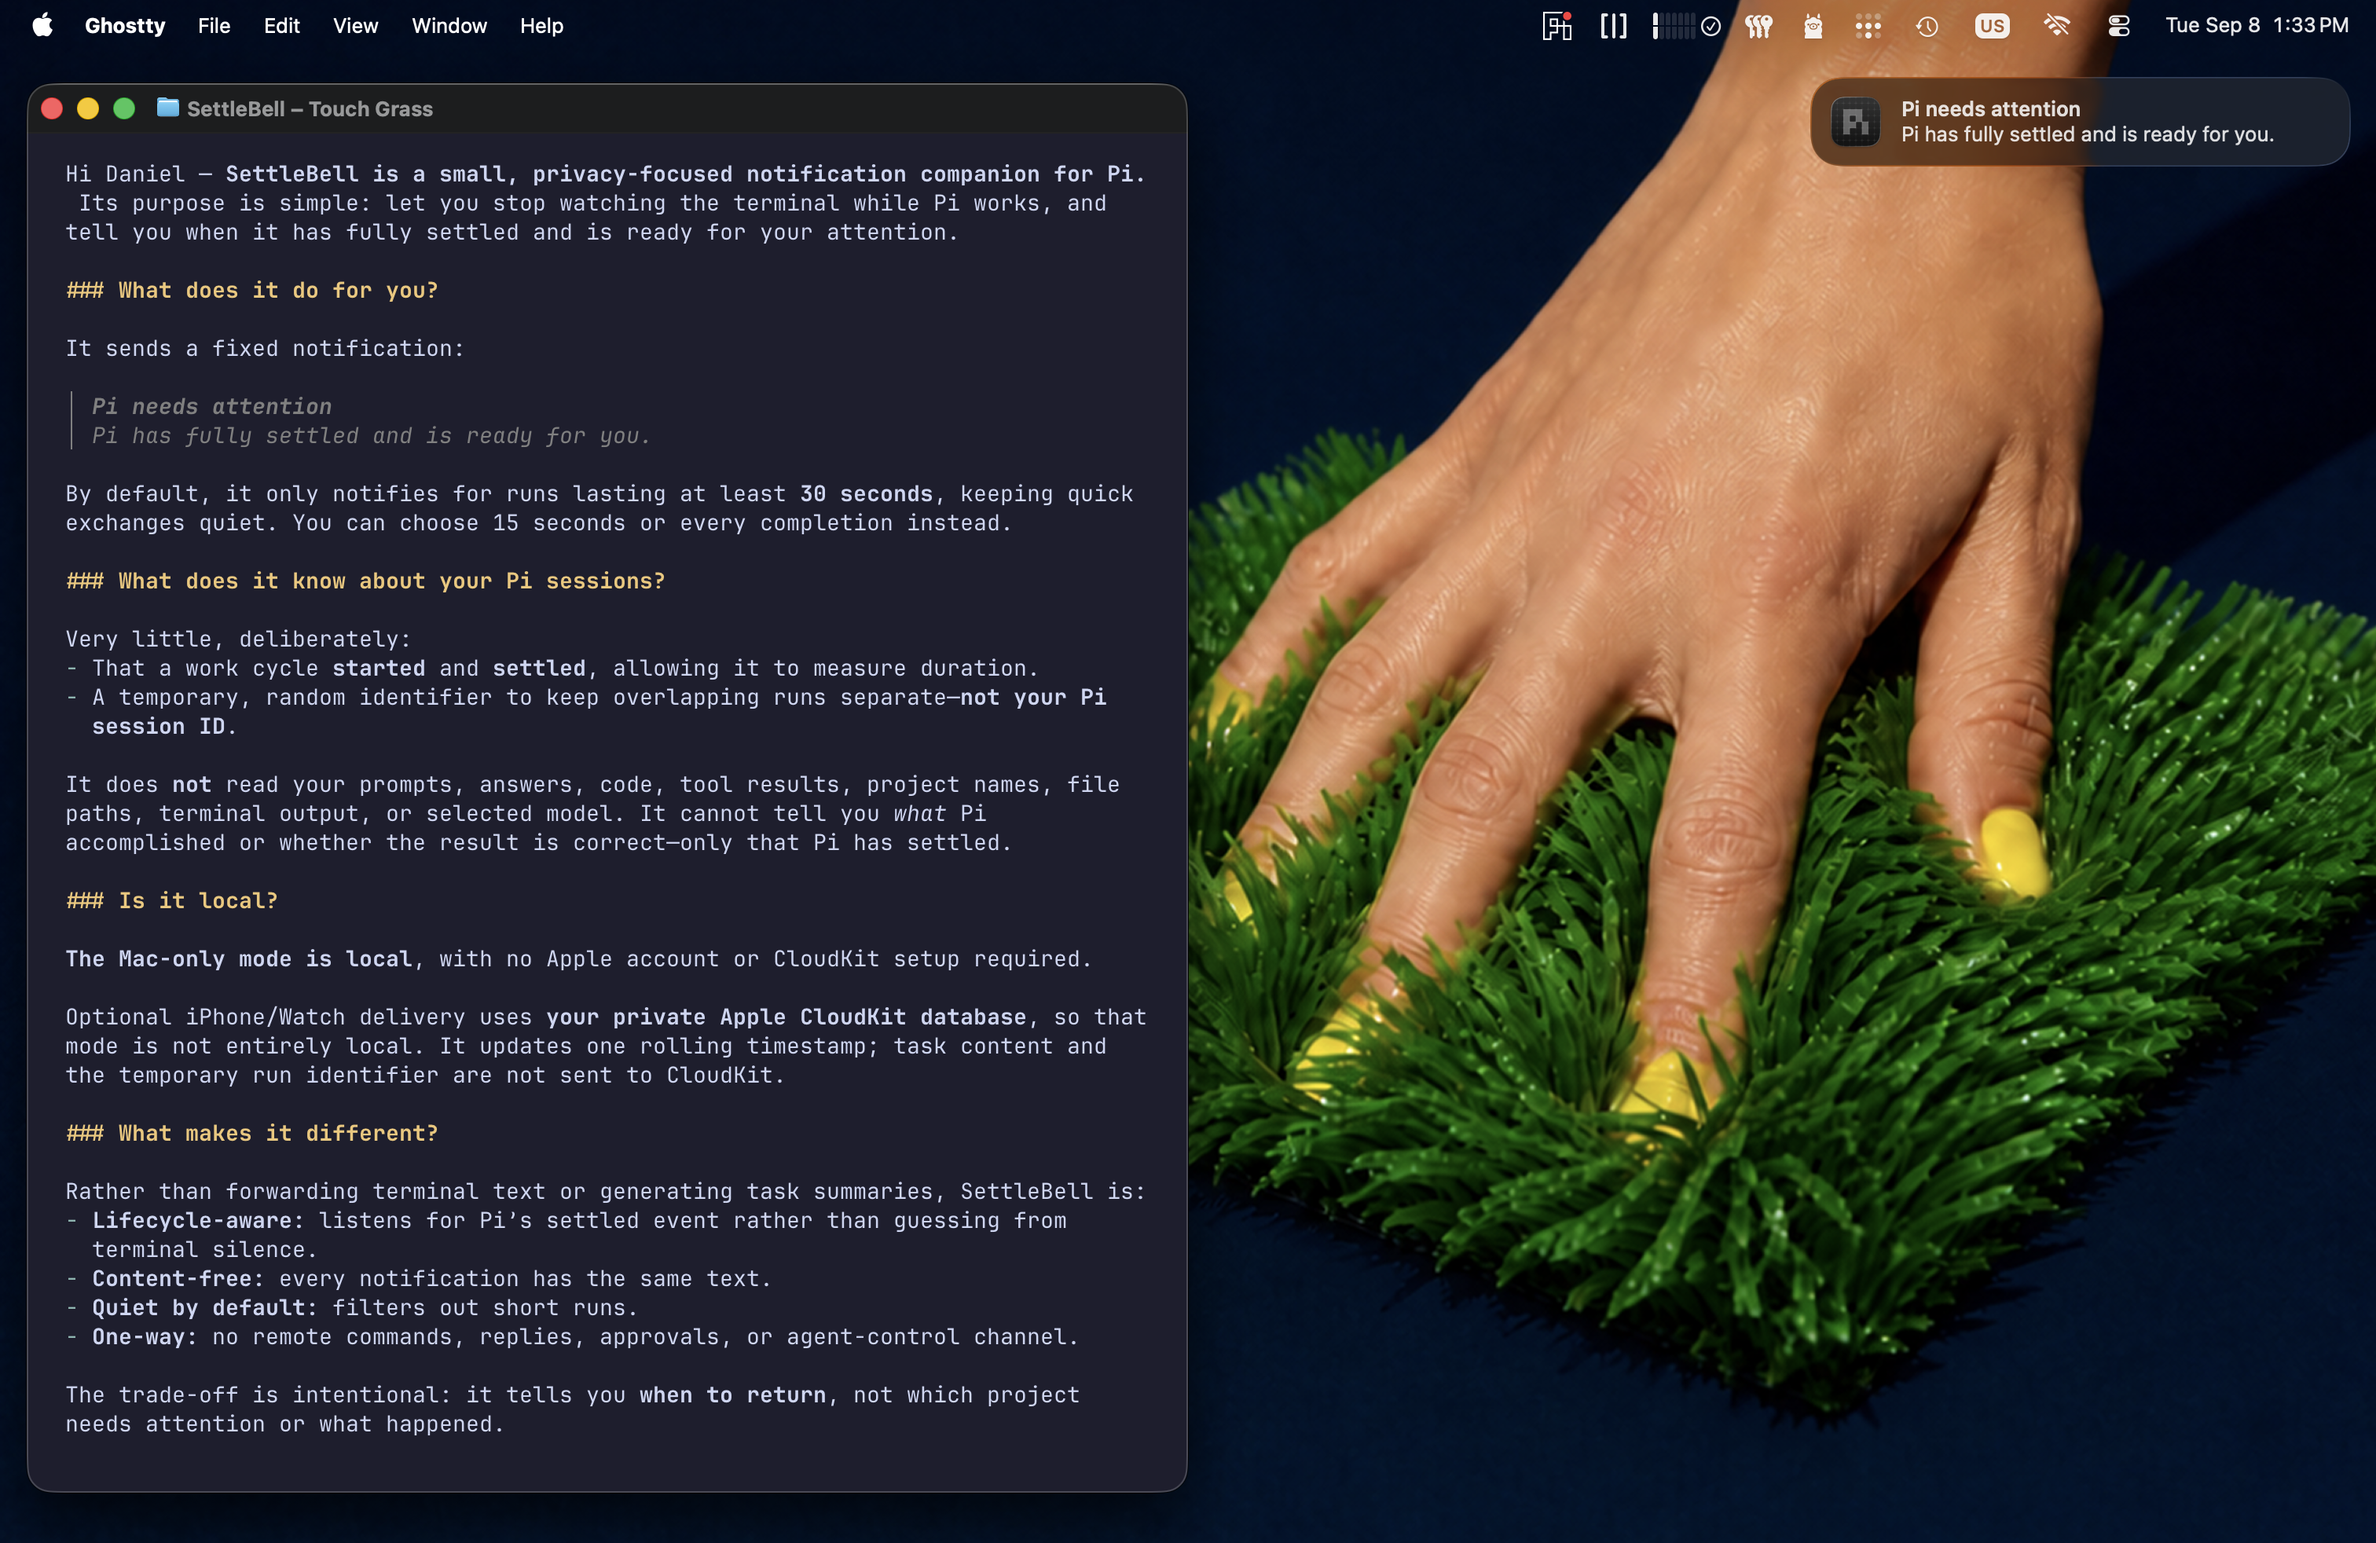
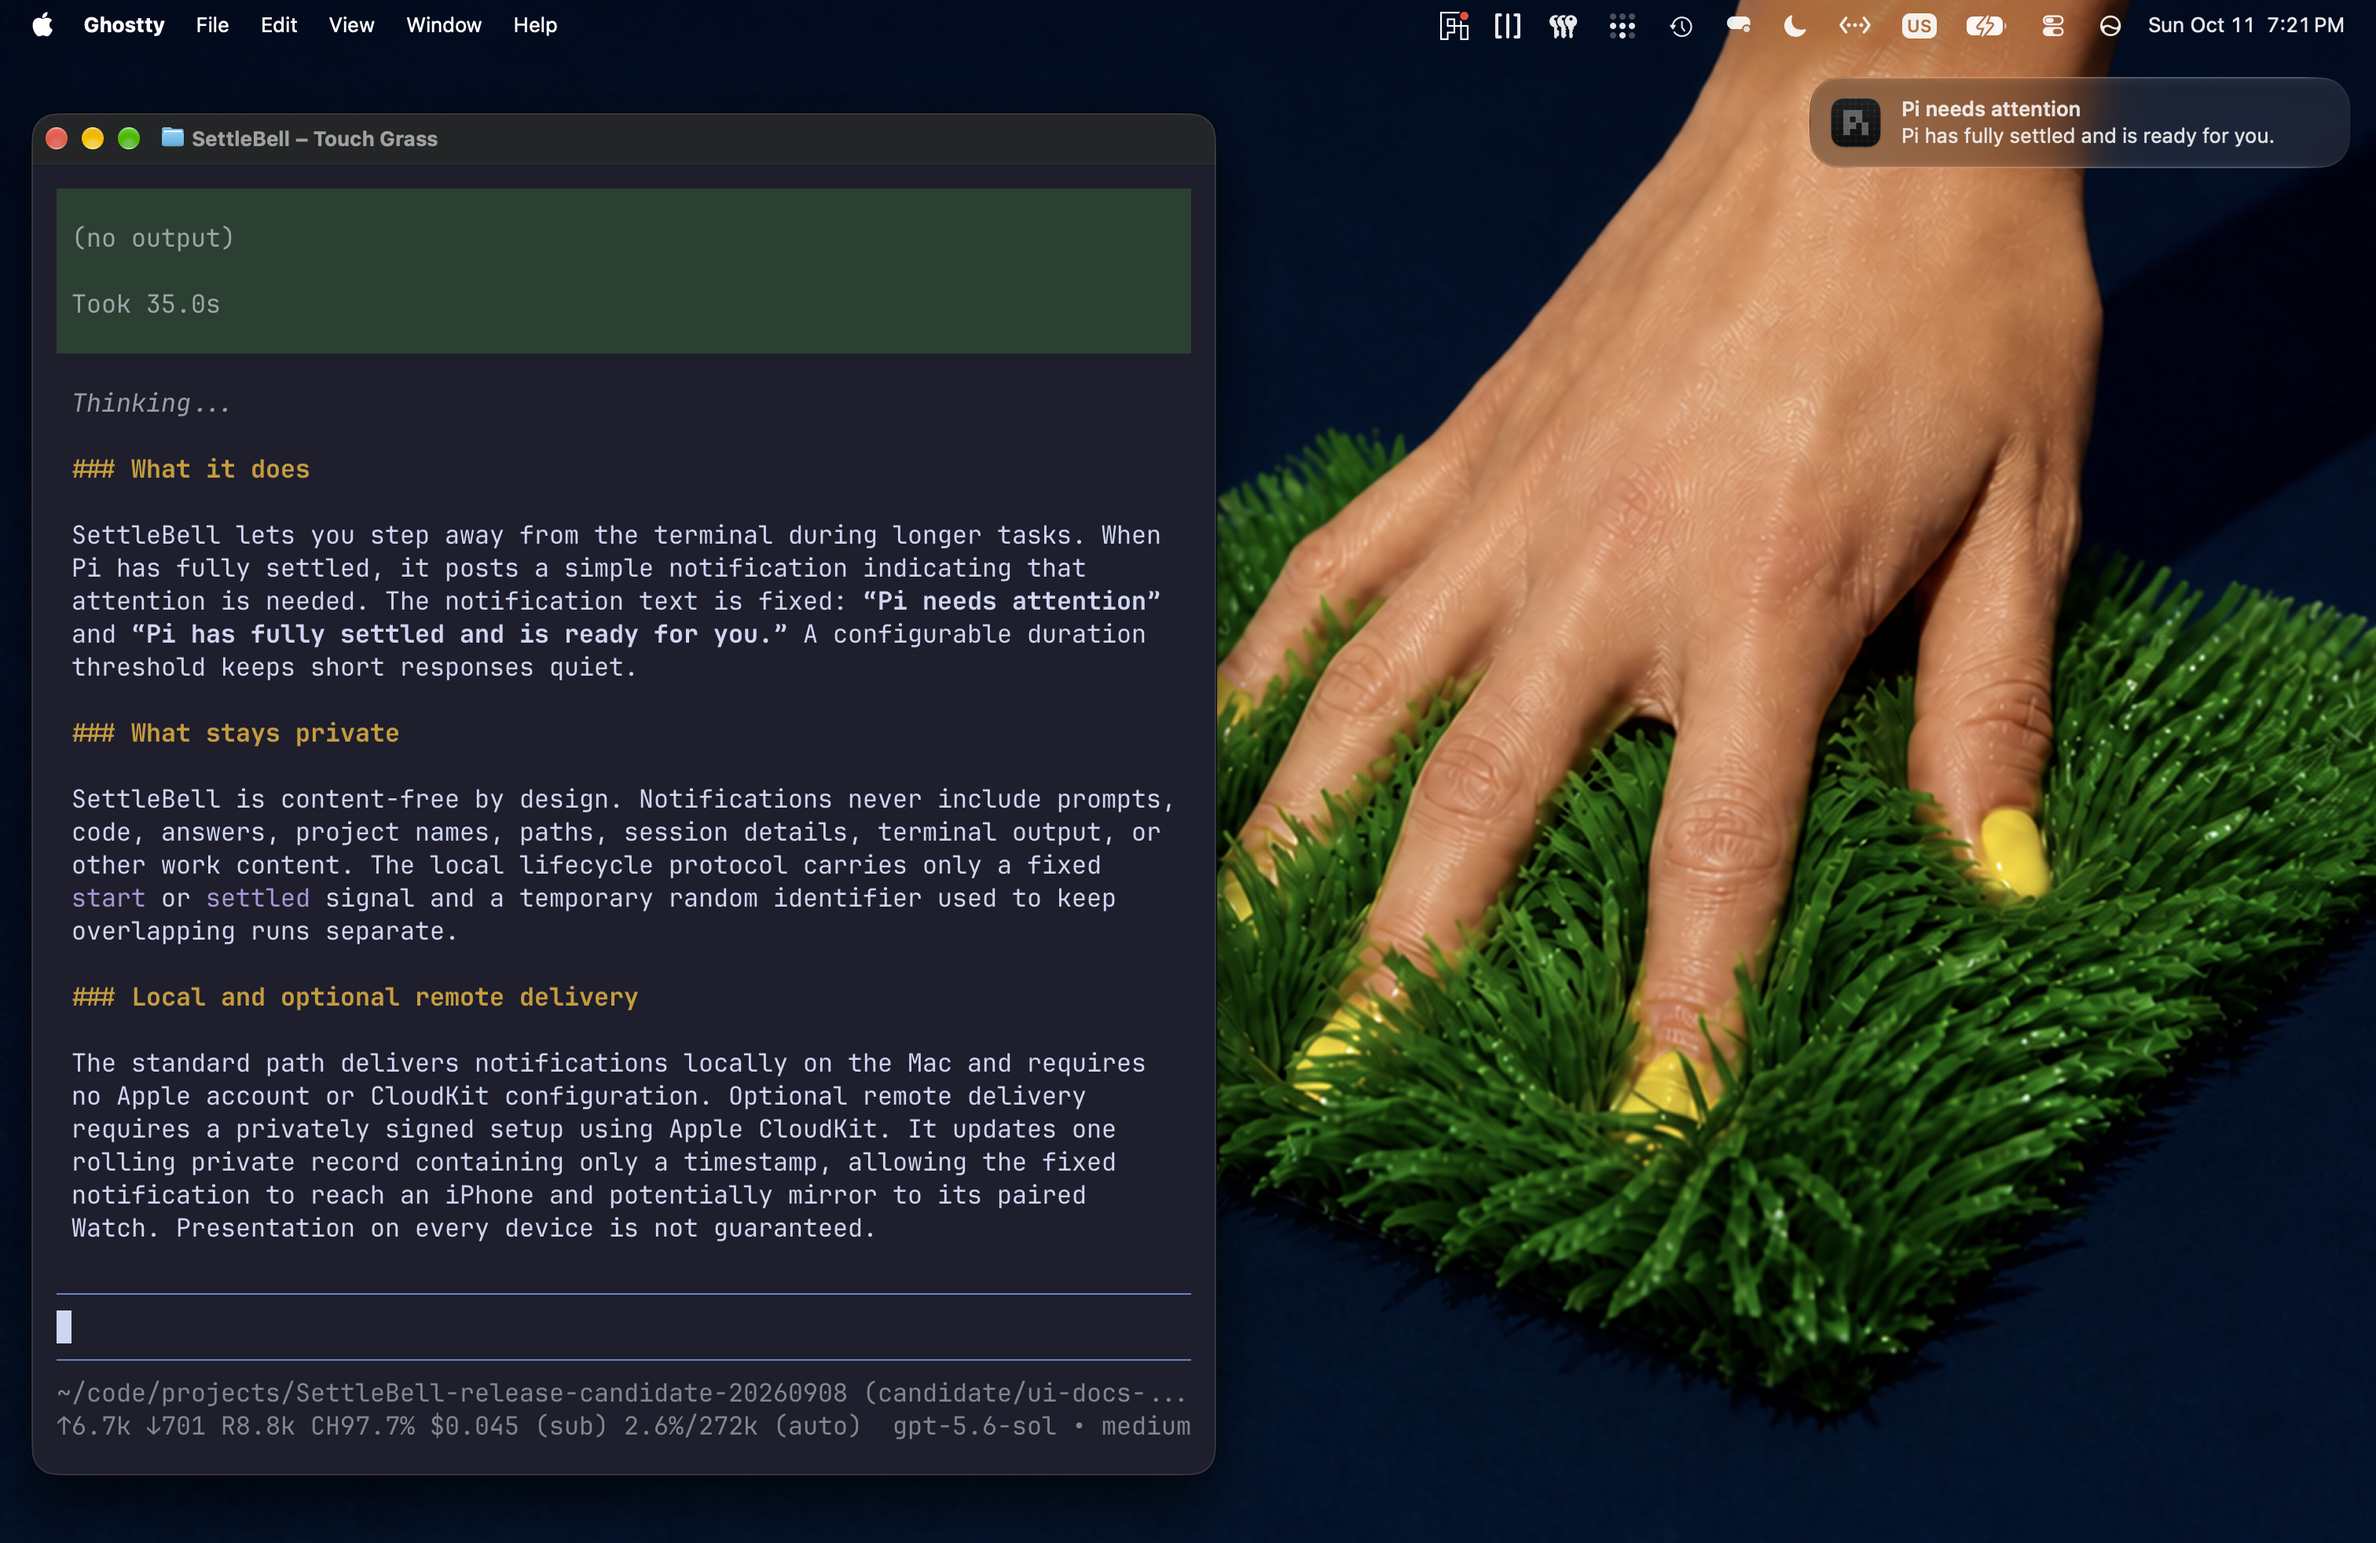
Refresh SettleBell README artwork and reuse teaser assets

Changed region(s): [[0.0, 0.0, 0.5284, 0.9939], [0.5906, 0.0, 0.9947, 0.1242], [0.373, 0.8386, 0.4352, 0.8697]]

diff --git a/README.md b/README.md
@@ -1,13 +1,13 @@
 # SettleBell
 
 <picture>
-  <source media="(prefers-color-scheme: dark)" srcset="Assets/Communication/piping-teaser-dark.webp">
-  <source media="(prefers-color-scheme: light)" srcset="Assets/Communication/piping-teaser-light.webp">
-  <img alt="A hand touching grass beside the fixed notification that Pi has fully settled" src="Assets/Communication/piping-teaser-dark.webp" width="720">
+  <source media="(prefers-color-scheme: dark)" srcset="Assets/Communication/settlebell-teaser-dark.webp">
+  <source media="(prefers-color-scheme: light)" srcset="Assets/Communication/settlebell-teaser-light.webp">
+  <img alt="A hand touching grass beside the fixed notification that Pi has fully settled" src="Assets/Communication/settlebell-teaser-dark.webp" width="720">
 </picture>
 
-*Unchanged PiPing `v0.1.0` teaser artwork, retained as historical provenance;
-not relabeled as new SettleBell artwork.*
+*Teaser artwork reused unchanged from PiPing `v0.1.0`; the original files
+remain preserved under their PiPing filenames.*
 
 Stop watching the terminal. When a long-running Pi task has fully settled, SettleBell
 sends a simple notification to your Mac, so you can go do something else while
